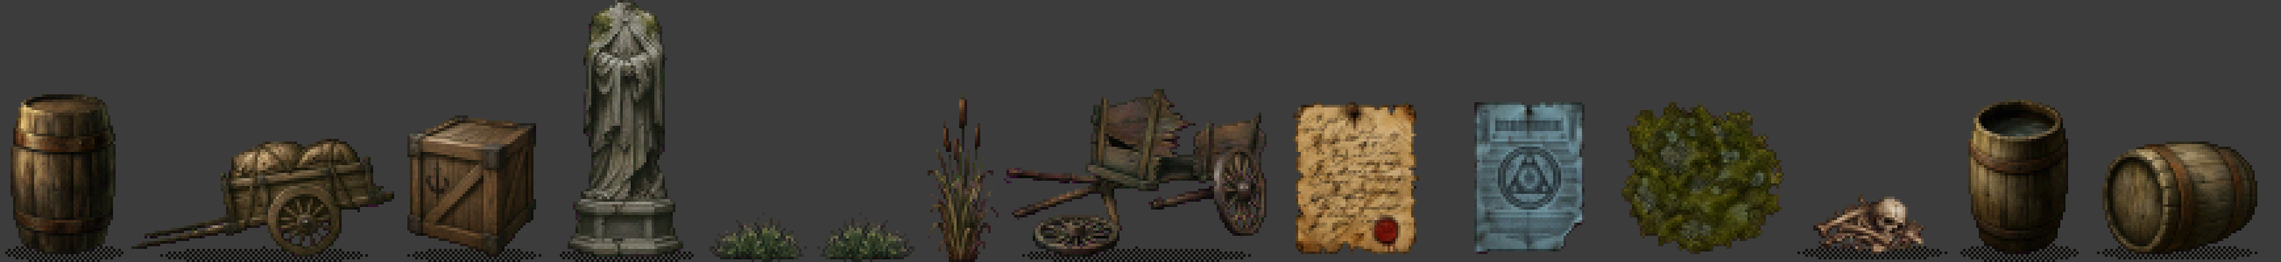
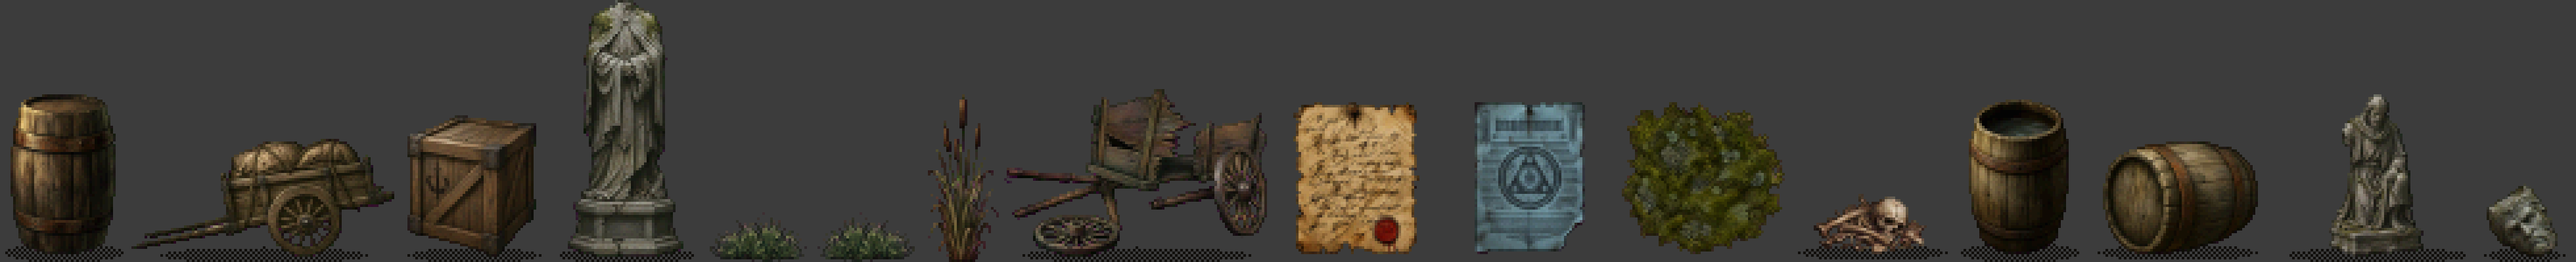
Stand-ins: paint the second statue and the fallen stone head
Two more Canva paintings on the magenta ground, keyed by
tools/art/painted20/key.py to the stand-ins' sizes (72x64 and 36x32)
with their dithered contact shadows. No drawn prop stand-ins remain;
the third grass tuft, the second reed, two posters and the second Synod
notice wait for the next Canva quota window.

Claude-Session: https://claude.ai/code/session_01BVzyvAqHcu7M4NDDh1GVjc

diff --git a/js/painted20.js b/js/painted20.js
@@ -398,6 +398,7 @@ const PAINTED20 = (() => {
     p_crate: 'img/painted20/p_crate.png', p_statue_broken: 'img/painted20/p_statue_broken.png', p_bones_small: 'img/painted20/p_bones_small.png', p_cart_broken: 'img/painted20/p_cart_broken.png',
     d_poster1: 'img/painted20/d_poster1.png', d_synod1: 'img/painted20/d_synod1.png', d_moss1: 'img/painted20/d_moss1.png',
     p_barrel_open: 'img/painted20/p_barrel_open.png', p_barrel_side: 'img/painted20/p_barrel_side.png',
+    p_statue_broken2: 'img/painted20/p_statue_broken2.png', p_statue_head: 'img/painted20/p_statue_head.png',
     // wall marks rendered by Blender from procedural materials (tools/art/decals/marks.py)
     d_moss2: 'img/painted20/d_moss2.png', d_moss3: 'img/painted20/d_moss3.png', d_crack1: 'img/painted20/d_crack1.png', d_crack2: 'img/painted20/d_crack2.png',
     d_scorch1: 'img/painted20/d_scorch1.png', d_scorch2: 'img/painted20/d_scorch2.png',

diff --git a/tools/art/painted20/key.py b/tools/art/painted20/key.py
@@ -44,6 +44,8 @@ PIECES = [
     # the Phase 20 roadmap's remaining drawn stand-ins, painted the same way (October 2026)
     ('p_barrel_open', 'barrel_open.png', (48, 64), {'anchor': 'bottom', 'margin': 2}),
     ('p_barrel_side', 'barrel_side.png', (72, 48), {'anchor': 'bottom', 'margin': 2}),
+    ('p_statue_broken2', 'statue2.png', (72, 64), {'anchor': 'bottom'}),
+    ('p_statue_head', 'statue_head.png', (36, 32), {'anchor': 'bottom', 'margin': 2}),
 ]
 
 

diff --git a/ROADMAP.md b/ROADMAP.md
@@ -194,7 +194,7 @@ Every phase must retain the security regression tests and save/load behavior. Re
 - [x] Ground-hugging mist and darkness: weather mist plus permanent area mist in Whisper-Grove, the Deep Woods, the catacombs, the Mausoleum, the belfry and the clearing at night (`js/post.js`); torch-driven interiors — rooms are dark away from their lamps and hearths, and the lantern (U) lights the floor around you indoors and outdoors at night (`js/lighting.js`, `GFX.darkInteriors`).
 - [~] Higher-detail close-up wall artwork with asset-resolution and memory budgets: a close-range grain (stone grit and wood fibre) modulates walls within 2.5 units (`Engine.setDetail`), and every generated texture is counted against a 512 KB budget (256 KB used, pinned by `test/surfaces.test.js`). **Hand-made close-up art and resolution tiers pending.**
 - [~] Moss, cracks, scorch marks, posters and Synod notices as seeded wall detail layers: twelve decals placed deterministically per map: posters and Synod notices on Oakhaven walls by the cobbles (more by the Chapel and Greenhall), moss outdoors and in damp places, scorch in the quarry and dungeons, cracks in stone interiors (`js/decals.js`, `GFX.decals`). Phase 20b painted a wall notice, a Synod notice and a moss patch (`img/painted20/`); the other two mosses, both cracks and both scorch marks are rendered by Blender from procedural materials (`tools/art/decals/marks.py`, October 2026). **Still drawn stand-ins: the other two posters and the second Synod notice.**
-- [~] More barrels, crates, carts, broken statues, graves and bones, placed without blocking routes: props in Oakhaven, the clearing, the quarry, the Deep Woods, Whisper-Grove and the catacombs, each accepted only if a flood fill still reaches every door, portal, NPC, item and usable object, kept 1.6 from doors and off the roads (`js/scenery.js`). Transient: never saved, rebuilt on load. Phase 20b painted the barrel, crate, hand-cart, broken cart, broken statue and bones, the open and side barrels followed in October 2026, and every painted prop now keeps its stand-in's dithered contact shadow so it stands on the ground; Phase 25 gives the props depth. **Still drawn stand-ins: the second statue and the stone head.**
+- [x] More barrels, crates, carts, broken statues, graves and bones, placed without blocking routes: props in Oakhaven, the clearing, the quarry, the Deep Woods, Whisper-Grove and the catacombs, each accepted only if a flood fill still reaches every door, portal, NPC, item and usable object, kept 1.6 from doors and off the roads (`js/scenery.js`). Transient: never saved, rebuilt on load. Phase 20b painted the barrel, crate, hand-cart, broken cart, broken statue and bones, the open and side barrels followed in October 2026, and every painted prop now keeps its stand-in's dithered contact shadow so it stands on the ground; Phase 25 gives the props depth; the second statue and the fallen stone head were painted in October 2026, so no drawn prop stand-ins remain.
 - [~] Swaying, player-reactive grass and reeds: up to 120 tufts per outdoor map, reeds along banks and shallows, swaying with the weather's wind and bending away from you (more when running) (`js/flora.js`, `GFX.grass`). Phase 20b painted two grass tufts and a reed. **Still drawn stand-ins: the third tuft and the second reed.**
 - [x] Geographic landmark placement: the Mausoleum's tower is real geometry on a rise, seen across the Deep Woods from wherever you stand, and the Oakhaven Chapel has a real bell-tower over the town. Phase 20 draws Oakhaven, Chapel and all, past the Hedge from the clearing and the Watch Downs (`js/horizon20.js`).
 - [~] Modern look baseline: a 2x internal render resolution (640x300) with sharp or smooth upscaling, softer depth-graded fog, bloom on lamps, glass and fire, and per-area, per-hour colour grades are done (`Engine.setScale`, `js/post.js`, `js/presets.js`). **Higher-detail wall artwork at close range is a procedural stand-in (see above).**
